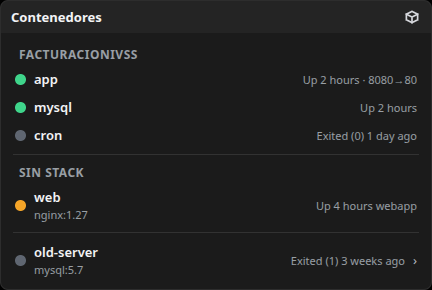
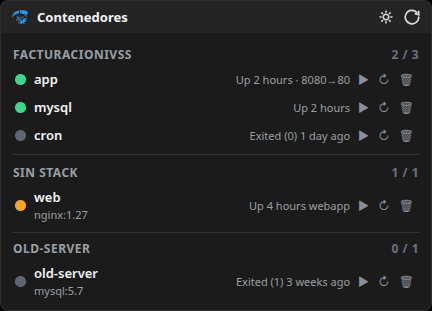
Rediseno el widget para parecerse a las capturas y corrijo el parpadeo del hover

diff --git a/docs/screenshots/preview.html b/docs/screenshots/preview.html
@@ -22,7 +22,7 @@
   .group { margin-top: 7px; }
   .gtitle { display: flex; align-items: center; gap: 6px; padding: 2px 6px; font-size: 12px;
             color: #9aa0a6; font-weight: 700; text-transform: uppercase; letter-spacing: .5px; }
-  .gtitle .cnt { color: #6b7280; }
+  .gtitle .cnt { color: #6b7280; margin-left: auto; }
   .row { display: flex; align-items: center; gap: 8px; padding: 5px 8px; border-radius: 5px; }
   .row:hover, .row.sel { background: rgba(255,255,255,0.06); }
   .dot { width: 11px; height: 11px; border-radius: 50%; flex: none; }
@@ -32,6 +32,7 @@
   .rstat { font-size: 11px; color: #9aa0a6; }
   .spacer { flex: 1; }
   .more { color: #b6bac2; font-size: 13px; }
+  .acts { color: #8b919b; font-size: 12px; letter-spacing: 3px; }
   .sep { height: 1px; background: rgba(255,255,255,0.10); margin: 5px 6px; }
   .banner { margin: 6px 8px 2px; padding: 6px 9px; font-size: 12px; color: #c6e7ff;
              background: #143a52; border: 1px solid #28597a; border-radius: 5px;
@@ -66,23 +67,26 @@
 
   <div class="pop" id="principal">
     <div class="head">
+      <div class="ico"><svg viewBox="0 0 24 24"><path fill="#2496ed" d="M13.5 3.1c3.1-.0 7.1.4 9 2.1L21 9.6c-1.6-1.3-4-1.7-6.1-2.1-.8-.2-1.4-.6-2.4-.7-.4-.7-.6-2.7-.4-3.7zm-2.6.1c.2 1-.4 3-.3 3.7-4.2 1.1-8.5 2.4-8.9 6.9-.8-4.3 2-9.8 9.2-10.6zm9.2 6.5c.7.6 1.1 1.6 1.1 3.2-.4-1.9-2.1-2.6-4.1-3.4 4.3-.1 2.8 2.6 3 .2zM8.3 10.9c.5 0 .9.4.9.9s-.4.9-.9.9-.9-.4-.9-.9.4-.9.9-.9zm7.7 0c.5 0 .9.4.9.9s-.4.9-.9.9-.9-.4-.9-.9.4-.9.9-.9zM9 12.7l.4 1.5c1.5-.3 2.8-.3 4.3 0l.4-1.5c-1.7-.4-3.4-.4-5.1 0zM10 15h-1l.5 2c.5.1 1 0 1.5.1l-.5-2-.5-.1zm5 0-1 .1-.5 2c.6-.1 1-.0 1.5-.1l.6-1 1.2-1c.1-.7-.3-1-1-1l-1-1.3-1-.3v1l-.7.5-1.6-.5-1 .3-.7-.5v-1l-1 .3-1 1.3c-.7.0-1.1.3-1 1l1.2 1L8 15h-1l.7 2.3 1.6.5 1.4 2.5 1.4-2.5 1.6-.5L10 15zm5.6-1.4.3 1.4-1.5.6-.3 1.4 1.4.7-.4 1.2-1.5-.7-1.6.5c-.2.6.3 1 1.4 1.9l-.7 1.1c-1.2-.9-1.7-1.4-2.1-2.1-1 .9-2.9 2.6-3.4 1.3.8-.7.2-1.2-.2-1.3-1 .9-2.1 1.9-2.1.9.1-.7 1.1-1.2 1.1-2L8 17l.4-1.2-1.5-.7L7.3 14c1.4.3 2.1.1 2.5-.4l1-.2 1.1-2.2 1.1 2.2 1 .2c.3.5 1.1.7 2.5.4z"/></svg></div>
       <div class="title">Contenedores</div>
-      <div class="ico"><svg viewBox="0 0 16 16" style="fill:none;stroke:currentColor;stroke-width:1.5" stroke-linecap="round"><path d="M8 3 13 5.5v5L8 13l-5-2.5v-5z"/><path d="M8 8l5-2.5M8 8L3 5.5M8 8v5"/></svg></div>
+      <div class="ico"><svg viewBox="0 0 16 16" style="fill:none;stroke:currentColor;stroke-width:1.4"><circle cx="8" cy="8" r="2.4"/><path d="M8 2.2v2M8 11.8v2M2.2 8h2M11.8 8h2M3.9 3.9l1.4 1.4M10.7 10.7l1.4 1.4M12.1 3.9l-1.4 1.4M5.3 10.7l-1.4 1.4"/></svg></div>
+      <div class="ico"><svg viewBox="0 0 16 16" style="fill:none;stroke:currentColor;stroke-width:1.5" stroke-linecap="round"><path d="M14 8a6 6 0 1 1-1.6-4M14 3v3l-3-1"/></svg></div>
     </div>
     <div class="body">
       <div class="group g1">
-        <div class="gtitle"><span class="cnt"></span>facturacionivss</div>
-        <div class="row"><span class="dot g"></span><div><div class="rname">app</div></div><div class="spacer"></div><span class="rstat">Up 2 hours · 8080→80</span></div>
-        <div class="row"><span class="dot g"></span><div><div class="rname">mysql</div></div><div class="spacer"></div><span class="rstat">Up 2 hours</span></div>
-        <div class="row"><span class="dot n"></span><div><div class="rname">cron</div></div><div class="spacer"></div><span class="rstat">Exited (0) 1 day ago</span></div>
+        <div class="gtitle">facturacionivss<span class="cnt">2 / 3</span></div>
+        <div class="row"><span class="dot g"></span><div><div class="rname">app</div></div><div class="spacer"></div><span class="rstat">Up 2 hours · 8080→80</span><span class="acts">▶ ↻ 🗑</span></div>
+        <div class="row"><span class="dot g"></span><div><div class="rname">mysql</div></div><div class="spacer"></div><span class="rstat">Up 2 hours</span><span class="acts">▶ ↻ 🗑</span></div>
+        <div class="row"><span class="dot n"></span><div><div class="rname">cron</div></div><div class="spacer"></div><span class="rstat">Exited (0) 1 day ago</span><span class="acts">▶ ↻ 🗑</span></div>
       </div>
       <div class="sep"></div>
       <div class="group g2">
-        <div class="gtitle"><span class="cnt"></span>Sin stack</div>
-        <div class="row"><span class="dot o"></span><div><div class="rname">web</div><div class="rimg">nginx:1.27</div></div><div class="spacer"></div><span class="rstat">Up 4 hours webapp</span></div>
+        <div class="gtitle">Sin stack<span class="cnt">1 / 1</span></div>
+        <div class="row"><span class="dot o"></span><div><div class="rname">web</div><div class="rimg">nginx:1.27</div></div><div class="spacer"></div><span class="rstat">Up 4 hours webapp</span><span class="acts">▶ ↻ 🗑</span></div>
       </div>
       <div class="sep"></div>
-      <div class="row"><span class="dot n"></span><div><div class="rname">old-server</div><div class="rimg">mysql:5.7</div></div><div class="spacer"></div><span class="rstat">Exited (1) 3 weeks ago</span><span class="more">›</span></div>
+      <div class="gtitle">old-server<span class="cnt">0 / 1</span></div>
+      <div class="row"><span class="dot n"></span><div><div class="rname">old-server</div><div class="rimg">mysql:5.7</div></div><div class="spacer"></div><span class="rstat">Exited (1) 3 weeks ago</span><span class="acts">▶ ↻ 🗑</span></div>
     </div>
   </div>
 
@@ -94,9 +98,9 @@
     </div>
     <div class="banner">Se reiniciarán <b>3</b> contenedores del stack. <span class="b">Confirmar</span></div>
     <div class="body">
-      <div class="row"><span class="dot g"></span><div><div class="rname">app</div><div class="rimg">app:1.4.2</div></div><div class="spacer"></div><span class="rstat">8080→80</span><span class="more">⋯</span></div>
-      <div class="row"><span class="dot g"></span><div><div class="rname">mysql</div></div><div class="spacer"></div><span class="rstat">3306</span><span class="more">⋯</span></div>
-      <div class="row"><span class="dot n"></span><div><div class="rname">cron</div></div><div class="spacer"></div><span class="rstat">Off</span><span class="more">⋯</span></div>
+      <div class="row"><span class="dot g"></span><div><div class="rname">app</div><div class="rimg">app:1.4.2</div></div><div class="spacer"></div><span class="rstat">8080→80</span><span class="acts">▶ ↻ 🗑</span></div>
+      <div class="row"><span class="dot g"></span><div><div class="rname">mysql</div></div><div class="spacer"></div><span class="rstat">3306</span><span class="acts">▶ ↻ 🗑</span></div>
+      <div class="row"><span class="dot n"></span><div><div class="rname">cron</div></div><div class="spacer"></div><span class="rstat">Off</span><span class="acts">▶ ↻ 🗑</span></div>
     </div>
   </div>
 

diff --git a/plasmoid/contents/ui/LogsView.qml b/plasmoid/contents/ui/LogsView.qml
@@ -31,6 +31,37 @@ Item {
         clipSource.copy();
     }
 
+    function colorString(c) {
+        return "#"
+            + Math.round(c.r * 255).toString(16).padStart(2, "0")
+            + Math.round(c.g * 255).toString(16).padStart(2, "0")
+            + Math.round(c.b * 255).toString(16).padStart(2, "0");
+    }
+
+    function esc(s) {
+        return s.replace(/&/g, "&amp;").replace(/</g, "&lt;").replace(/>/g, "&gt;");
+    }
+
+    function renderLogs(raw) {
+        var out = "";
+        var lines = raw.split("\n");
+        for (var i = 0; i < lines.length; i++) {
+            var lower = lines[i].toLowerCase();
+            var color = "";
+            if (lower.indexOf("error") >= 0 || lower.indexOf("traceback") >= 0) {
+                color = colorString(Kirigami.Theme.negativeTextColor);
+            } else if (lower.indexOf("warn") >= 0) {
+                color = colorString(Kirigami.Theme.neutralTextColor);
+            } else if (lower.indexOf("debug") >= 0) {
+                color = colorString(Kirigami.Theme.highlightColor);
+            }
+            out += (color !== "")
+                ? "<span style=\"color:" + color + "\">" + esc(lines[i]) + "</span>\n"
+                : esc(lines[i]) + "\n";
+        }
+        return out;
+    }
+
     ColumnLayout {
         anchors.fill: parent
         spacing: Kirigami.Units.smallSpacing
@@ -96,20 +127,31 @@ Item {
                 font.pixelSize: Kirigami.Theme.defaultFont.pixelSize
             }
 
-            Controls.ScrollView {
+            Rectangle {
                 anchors.fill: parent
                 visible: !logPage.loading && logPage.error === "" && logPage.logs !== ""
+                radius: Kirigami.Units.smallSpacing
+                color: Kirigami.Theme.alternateBackgroundColor
+                border.color: Qt.rgba(Kirigami.Theme.textColor.r,
+                                      Kirigami.Theme.textColor.g,
+                                      Kirigami.Theme.textColor.b, 0.18)
 
-                Controls.TextArea {
-                    text: logPage.logs
-                    readOnly: true
-                    wrapMode: TextEdit.NoWrap
-                    color: Kirigami.Theme.textColor
-                    selectionColor: Kirigami.Theme.highlightColor
-                    selectedTextColor: Kirigami.Theme.highlightedTextColor
-                    font.family: "monospace"
-                    font.pixelSize: Kirigami.Theme.smallFont.pixelSize
-                    background: null
+                Controls.ScrollView {
+                    anchors.fill: parent
+                    anchors.margins: Kirigami.Units.smallSpacing
+
+                    Controls.TextArea {
+                        text: logPage.renderLogs(logPage.logs)
+                        textFormat: TextEdit.RichText
+                        readOnly: true
+                        wrapMode: TextEdit.NoWrap
+                        color: Kirigami.Theme.textColor
+                        selectionColor: Kirigami.Theme.highlightColor
+                        selectedTextColor: Kirigami.Theme.highlightedTextColor
+                        font.family: "monospace"
+                        font.pixelSize: Kirigami.Theme.smallFont.pixelSize
+                        background: null
+                    }
                 }
             }
         }

diff --git a/plasmoid/contents/ui/DockerRow.qml b/plasmoid/contents/ui/DockerRow.qml
@@ -11,12 +11,25 @@ Item {
     height: Math.max(layout.implicitHeight, 40)
 
     property var container: ({})
+    property bool hovered: false
+
     signal requestAction(string name, string action)
     signal openDetail(string name)
+
+    Rectangle {
+        anchors.fill: parent
+        radius: 6
+        color: Kirigami.Theme.textColor
+        opacity: delegate.hovered ? 0.07 : 0
+        Behavior on opacity { NumberAnimation { duration: 120 } }
+    }
 
     MouseArea {
         anchors.fill: parent
         acceptedButtons: Qt.LeftButton
+        hoverEnabled: true
+        onEntered: delegate.hovered = true
+        onExited: delegate.hovered = false
         onClicked: delegate.openDetail(delegate.container.name)
     }
 
@@ -39,7 +52,7 @@ Item {
             spacing: 1
 
             Text {
-                text: delegate.container.stack && (delegate.container.stack + " / ") + delegate.container.name
+                text: delegate.container.name || ""
                 elide: Text.ElideRight
                 Layout.fillWidth: true
                 font.bold: true
@@ -64,7 +77,7 @@ Item {
                 elide: Text.ElideRight
                 Layout.fillWidth: true
                 color: Kirigami.Theme.textColor
-                opacity: 0.7
+                opacity: 0.65
                 font.pixelSize: Kirigami.Theme.smallFont.pixelSize
             }
         }
@@ -105,14 +118,6 @@ Item {
                 Controls.ToolTip.visible: hovered
                 Controls.ToolTip.text: i18n("Eliminar")
                 onClicked: delegate.requestAction(delegate.container.name, "remove")
-            }
-
-            PlasmaComponents.ToolButton {
-                hoverEnabled: true
-                icon.name: "go-next"
-                Controls.ToolTip.visible: hovered
-                Controls.ToolTip.text: i18n("Detalles y logs")
-                onClicked: delegate.openDetail(delegate.container.name)
             }
         }
     }

diff --git a/plasmoid/contents/ui/StackSection.qml b/plasmoid/contents/ui/StackSection.qml
@@ -15,10 +15,11 @@ ColumnLayout {
 
     Item {
         Layout.fillWidth: true
-        Layout.preferredHeight: 28
+        Layout.preferredHeight: 24
 
         MouseArea {
             anchors.fill: parent
+            hoverEnabled: true
             onClicked: section.openStack(section.stack ? section.stack.key : "")
         }
 
@@ -29,27 +30,21 @@ ColumnLayout {
             spacing: Kirigami.Units.smallSpacing
 
             Text {
-                text: section.title
+                text: section.title.toUpperCase()
                 font.bold: true
+                font.letterSpacing: 0.7
+                font.pixelSize: Kirigami.Theme.smallFont.pixelSize
                 elide: Text.ElideRight
                 Layout.fillWidth: true
                 color: Kirigami.Theme.textColor
-                font.pixelSize: Kirigami.Theme.defaultFont.pixelSize
+                opacity: 0.55
             }
 
-        Text {
+            Text {
                 text: section.stack ? section.stack.running + " / " + section.stack.containers.length : ""
                 color: Kirigami.Theme.textColor
-                opacity: 0.6
+                opacity: 0.45
                 font.pixelSize: Kirigami.Theme.smallFont.pixelSize
-            }
-
-            Kirigami.Icon {
-                Layout.preferredWidth: Kirigami.Units.iconSizes.small
-                Layout.preferredHeight: Kirigami.Units.iconSizes.small
-                source: "go-next"
-                color: Kirigami.Theme.textColor
-                opacity: 0.5
             }
         }
     }
@@ -58,7 +53,7 @@ ColumnLayout {
         Layout.fillWidth: true
         Layout.preferredHeight: 1
         color: Kirigami.Theme.textColor
-        opacity: 0.1
+        opacity: 0.12
     }
 
     Item {

diff --git a/plasmoid/contents/ui/main.qml b/plasmoid/contents/ui/main.qml
@@ -10,7 +10,7 @@ PlasmoidItem {
     id: root
 
     Plasmoid.status: PlasmaCore.Types.PassiveStatus
-    Plasmoid.icon: "system-run"
+    Plasmoid.icon: "docker"
     toolTipMainText: i18n("Contenedores Docker")
     toolTipSubText: root.lastError
         ? i18n("Backend no disponible")
@@ -79,21 +79,13 @@ PlasmoidItem {
                 }
 
                 Text {
-                    text: i18n("Contenedores Docker")
+                    text: i18n("Contenedores")
                     font.bold: true
                     color: Kirigami.Theme.textColor
                     Layout.alignment: Qt.AlignVCenter
                     Layout.fillWidth: true
                     elide: Text.ElideRight
                     font.pixelSize: Kirigami.Theme.defaultFont.pixelSize
-                }
-
-                Text {
-                    text: root.runningCount + " / " + (root.runningCount + root.stoppedCount)
-                    color: Kirigami.Theme.textColor
-                    opacity: 0.7
-                    Layout.alignment: Qt.AlignVCenter
-                    font.pixelSize: Kirigami.Theme.smallFont.pixelSize
                 }
 
                 PlasmaComponents.ToolButton {

diff --git a/plasmoid/contents/ui/ContainerDetail.qml b/plasmoid/contents/ui/ContainerDetail.qml
@@ -225,6 +225,7 @@ Item {
             Layout.fillWidth: true
             wrapMode: Text.Wrap
             color: Kirigami.Theme.textColor
+            font.bold: true
             font.pixelSize: Kirigami.Theme.smallFont.pixelSize
         }
     }
